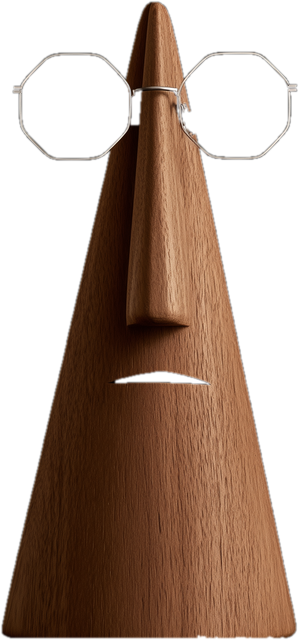
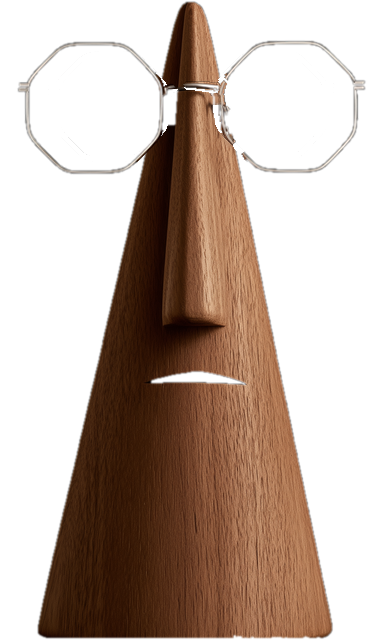
Sticky note stuck to the inside right wall of Recommended, curling into the opening; no string; larger glasses; mid-size plane hop
Claude-Session: https://claude.ai/code/session_01BKxVmdhpwGpXez5ZdSrwBH

diff --git a/styles.css b/styles.css
@@ -1080,75 +1080,74 @@ body.lights-off .photo-ext { filter: brightness(0.75); }
 body.plane-3d .obj-plane img, body.plane-3d .obj-plane .tint, body.plane-3d .obj-plane .contact, body.plane-3d .obj-plane .reflection { opacity: 0; }
 body.plane-3d .obj-plane:hover { transform: none; }
 
-/* ---------- the note pinned to the plinth ---------- */
+/* ---------- sticky note in the Recommended bay ---------- */
 .rec-note {
   position: absolute;
   z-index: 2;
+  width: 0;
   padding: 0;
   border: 0;
   background: none;
   cursor: pointer;
   pointer-events: auto;
-  transform: rotate(var(--rot));
-  transform-origin: 50% 6%;
-  transition: transform 0.35s cubic-bezier(0.2, 0.9, 0.25, 1.05);
+  perspective: 1500px;
+  perspective-origin: -890px 50%; /* the room camera sits well to the left of this edge */
+  transform-style: preserve-3d;
 }
-.rec-note:hover { transform: rotate(calc(var(--rot) - 2deg)); }
-.rec-note-paper {
+.rn-back, .rn-front {
   position: absolute;
-  inset: 0;
-  background: url("assets/ui/card.png") center / 100% 100% no-repeat;
-  filter: brightness(1) sepia(0.08);
+  top: 0;
+  height: 100%;
+  /* buttery sticky-note stock with real paper fibre */
+  background:
+    url("assets/tex/paper-grain.jpg") center / 140px auto,
+    linear-gradient(180deg, #f6edc6, #efe2b0);
+  background-blend-mode: multiply, normal;
 }
-.rec-note-paper::after {
+/* stuck flat to the side wall, running back into the bay; lit warm by the strip above */
+.rn-back {
+  right: 0;
+  transform-origin: 100% 50%;
+  transform: rotateY(-70deg);
+  filter: brightness(0.78) sepia(0.35);
+}
+.rn-back::after { content: ""; position: absolute; inset: 0; background: linear-gradient(90deg, rgba(60, 25, 5, 0.35), rgba(255, 170, 90, 0.12)); }
+/* the free half curls out past the front edge, toward the room */
+.rn-front {
+  right: 0;
+  transform-origin: 100% 50%;
+  transform: rotateY(22deg) rotateZ(-1.5deg);
+  box-shadow: -6px 9px 14px rgba(0, 0, 0, 0.5);
+  transition: transform 0.4s cubic-bezier(0.2, 0.9, 0.25, 1.05);
+}
+/* curl: the paper bows away from the wall, darker where it bends and at the lifted corner */
+.rn-front::before {
   content: "";
   position: absolute;
   inset: 0;
-  -webkit-mask: url("assets/ui/card.png") center / 100% 100% no-repeat;
-  mask: url("assets/ui/card.png") center / 100% 100% no-repeat;
-  /* warm spill from the bay above on the top, the lower half hangs in the floor's shadow */
-  background: linear-gradient(180deg, rgba(255, 200, 140, 0.15), rgba(0, 0, 0, 0) 45%, rgba(30, 15, 6, 0.28));
-  mix-blend-mode: multiply;
+  background:
+    linear-gradient(270deg, rgba(90, 60, 20, 0.32), rgba(0, 0, 0, 0) 16%),
+    linear-gradient(160deg, rgba(0, 0, 0, 0) 70%, rgba(80, 55, 20, 0.22));
+  pointer-events: none;
 }
-/* flat against the wood up top, lifting off it below the edge */
-.rec-note-shadow {
-  position: absolute;
-  inset: 6% -3% -6% 4%;
-  background: linear-gradient(180deg, rgba(0, 0, 0, 0.35), rgba(0, 0, 0, 0.6));
-  filter: blur(5px);
-  border-radius: 4px;
-}
+.rec-note:hover .rn-front { transform: rotateY(30deg) rotateZ(-1.5deg); }
 .rec-note-ink {
   position: absolute;
-  inset: 24% 2% 14%;
+  inset: 18% 12% 14% 6%;
   display: flex;
   flex-direction: column;
-  align-items: center;
+  align-items: flex-start;
   justify-content: center;
-  gap: 3px;
+  gap: 4px;
   font-family: "Caveat", "Segoe Script", cursive;
   font-weight: 600;
   line-height: 1;
   color: #1d2533;
-  opacity: 0.86;
+  opacity: 0.88;
   mix-blend-mode: multiply;
-  transform: rotate(-2deg);
 }
-.rn-1 { font-size: 21px; white-space: nowrap; }
-.rn-2 { font-size: 20px; white-space: nowrap; margin-left: 20px; }
-/* brass thumbtack */
-.rec-note-pin {
-  position: absolute;
-  left: 50%;
-  top: 4%;
-  width: 11px;
-  height: 11px;
-  margin-left: -5.5px;
-  border-radius: 50%;
-  background: radial-gradient(circle at 35% 30%, #fff3c8, #d9b15c 35%, #8a6424 70%, #4a3410);
-  box-shadow: 1px 2px 2px rgba(0, 0, 0, 0.6);
-}
-.rec-note-knot { position: absolute; left: 62%; bottom: 6%; width: 4px; height: 4px; border-radius: 50%; background: #b89a6e; box-shadow: 0 1px 1px rgba(0, 0, 0, 0.5); }
+.rn-1 { font-size: 18px; white-space: nowrap; }
+.rn-2 { font-size: 18px; white-space: nowrap; margin-left: 16px; }
 body.lights-off .rec-note { filter: brightness(0.28); }
 .scene.zooming .rec-note { pointer-events: none; }
 /* the deck: brighter so it reads against the rug and floor */

diff --git a/js/main.js b/js/main.js
@@ -824,22 +824,25 @@ function addPlant() {
   addCard();
 }
 
-// A note pinned to the front of the plinth below Recommended; a string ties it to the plane.
+// A sticky note: its back half stuck to the inside right wall of the Recommended bay,
+// its front half curling out past the wall's front edge toward the room.
 function addCard() {
   const C = OBJECTS.card;
   $("objects").querySelector(".rec-note")?.remove();
   const card = el("button", "rec-note");
   card.type = "button";
   card.setAttribute("aria-label", "Recommend a book");
-  Object.assign(card.style, { left: `${C.x - C.w / 2}px`, top: `${C.top}px`, width: `${C.w}px`, height: `${C.h}px` });
-  card.style.setProperty("--rot", `${C.rot}deg`);
+  Object.assign(card.style, { left: `${C.edge}px`, top: `${C.top}px`, height: `${C.h}px` });
+  const back = el("span", "rn-back");
+  back.style.width = `${C.back}px`;
+  const front = el("span", "rn-front");
+  front.style.width = `${C.front}px`;
   const ink = el("span", "rec-note-ink");
   ink.append(el("span", "rn-1", "Recommend a book —"), el("span", "rn-2", "fly it to me!"));
-  const knot = el("span", "rec-note-knot");
-  card.append(el("span", "rec-note-shadow"), el("span", "rec-note-paper"), ink, el("span", "rec-note-pin"), knot);
+  front.append(ink);
+  card.append(back, front);
   card.addEventListener("click", (e) => { e.stopPropagation(); hideCard(); if (state.planeEl) openRecForm(state.planeEl); });
   $("objects").append(card);
-  state.cardKnot = knot;
 }
 
 // =====================================================================
@@ -1263,12 +1266,6 @@ function startPlane3D() {
       anchor: state.planeEl,
       isHidden: () => !!state.zoom || $("recForm").classList.contains("on"),
       isDark: () => state.lightsOff,
-      tie: () => {
-        const k = state.cardKnot;
-        if (!k || !k.isConnected) return null;
-        const r = k.getBoundingClientRect();
-        return { x: r.left + r.width / 2, y: r.top + r.height / 2 };
-      },
       onReady: ({ flyOnce }) => {
         document.body.classList.add("plane-3d");
         if (!reduceMotion) setTimeout(flyOnce, 5000);

diff --git a/js/layout.js b/js/layout.js
@@ -80,7 +80,7 @@ export const TITLE = {
 // behind the board's front edge (shelf line y≈495). sink = how far below that line the base really is.
 export const OBJECTS = {
   // left arch: holder a little left of centre and forward, hourglass set further back and turned slightly
-  glasses: { id: "glasses", x: 712, base: 495, sink: 9, w: 69, h: 148, zone: "arch-left" },
+  glasses: { id: "glasses", x: 712, base: 495, sink: 9, w: 86, h: 148, zone: "arch-left" },
   hourglass: { id: "hourglass", x: 866, base: 495, sink: 17, w: 77, h: 146, rot: 2, zone: "arch-left" },
   // centre arch: lamp a touch off-centre, as if pushed aside
   lamp: { id: "lamp", x: 1392, base: 495, sink: 10, w: 172, h: 204, zone: "lamp" },
@@ -92,6 +92,6 @@ export const OBJECTS = {
   plant: { id: "plant", bay: "Self-Help", inset: 66, w: 112, h: 120, zone: "shelf" },
   // the note propped in the Recommended bay, tied by a string to the plane
   // pinned to the front of the plinth at the bottom-right, half hanging over its lower edge
-  // pinned to the case's right-hand upright, halfway up the Recommended bay, half over the opening
-  card: { x: 2300, top: 1214, w: 172, h: 128, rot: 4 },
+  // stuck to the inside right wall of the Recommended bay, curling out past its front edge
+  card: { edge: 2345, top: 1222, h: 118, back: 72, front: 162 },
 };

diff --git a/js/plane3d.js b/js/plane3d.js
@@ -131,10 +131,10 @@ export function initPlane3D({ anchor, isHidden, isDark, tie, onReady }) {
     // in screen space: up and left in front of the case, a wide turn, then back down to land
     // a small hop: lift, a short curve out and back, and drop onto the same spot
     const pts = [
-      [0, 0, 0], [-0.12, 0.35, 0.1], [-0.38, 0.55, 0.18], [-0.55, 0.42, 0.18],
-      [-0.4, 0.16, 0.1], [-0.12, 0.03, 0.03], [0, 0, 0],
+      [0, 0, 0], [-0.22, 0.42, 0.15], [-0.68, 0.7, 0.3], [-1.0, 0.52, 0.3],
+      [-0.7, 0.24, 0.18], [-0.22, 0.05, 0.05], [0, 0, 0],
     ].map(([x, y, z]) => new THREE.Vector3(x * u, y * u, z * u));
-    flight = { curve: new THREE.CatmullRomCurve3(pts, false, "centripetal", 0.5), start: performance.now(), dur: 2200 };
+    flight = { curve: new THREE.CatmullRomCurve3(pts, false, "centripetal", 0.5), start: performance.now(), dur: 2400 };
   }
 
   const tmpQ = new THREE.Quaternion(), m4 = new THREE.Matrix4();
